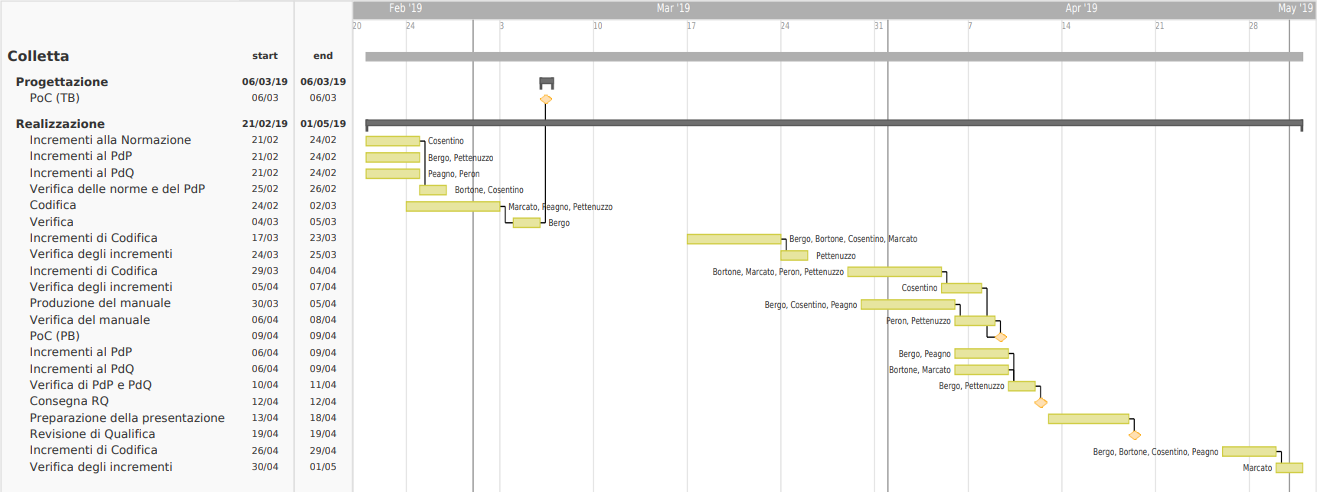
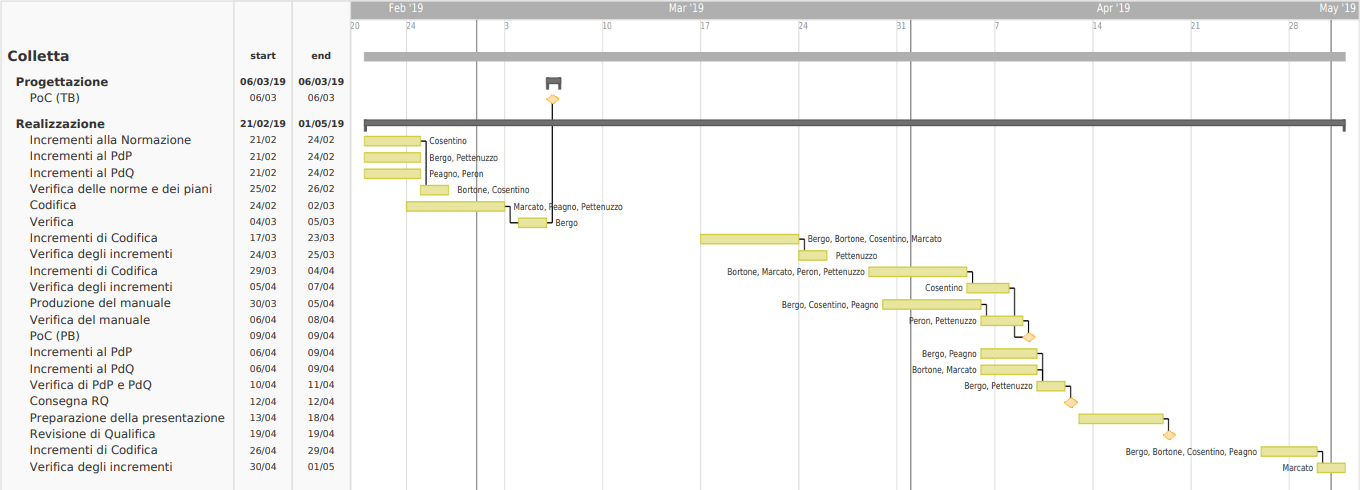
Aggiunta pianificazione per la realizzazione

diff --git a/docs/PdP/pianificazione.tex b/docs/PdP/pianificazione.tex
@@ -40,9 +40,9 @@ La numerazione, sia per i periodi sia per gli insieme di attività sia per le si
 				\item incrementi al Piano di Progetto (2019-01-07 - 2019-01-10): il responsabile redige la parte di rendicontazione e consuntivo del piano di progetto da presentare alla Revisione dei Requisiti.
 				\item incrementi al Piano di Qualifica (2019-01-07 - 2019-01-10): i verificatori redigono la parte di rendicontazione del piano di qualifica da presentare alla Revisione dei Requisiti, aggiungendo i risultati delle misurazioni effettuate, e gli analisti aggiungono i restanti test di sistema.
 				\item verifica dei piani di Progetto e Qualifica (2019-01-11 - 2019-01-12)
-				\item preparazione alla presentazione (2019-01-15 - 2019-01-20)
+				\item preparazione alla presentazione (2019-01-15 - 2019-01-20);
 				\item analisi dei requisiti software (2019-02-01 - 2019-02-05): gli analisti effettuano l'analisi dei requisiti software. Quest'attività è successiva al primo incremento di progettazione architetturale.
-				\item Verifica dell'analisi dei requisiti (2019-02-07 - 2019-02-09)				
+				\item verifica dell'analisi dei requisiti (2019-02-07 - 2019-02-09)				
 			\end{enumerate}
 
 	\newpage
@@ -51,4 +51,40 @@ La numerazione, sia per i periodi sia per gli insieme di attività sia per le si
 		\includegraphics[scale=0.5,angle=90]{images/ganttan.png}
 		\caption{Diagramma di Gantt per il periodo di avvio e di analisi}
 	\end{figure}
+	
 	\newpage
+	\subsection{Progettazione}	
+	
+	\newpage
+	\subsection{Realizzazione (2019-02-21 - 2019-05-01)}
+		\begin{enumerate}[label= 4.\arabic*)]
+			\item incrementi alla normazione (2019-02-21 - 2019-02-24): gli amministratori redigono le norme per il processo di realizzazione;
+			\item incrementi al Piano di Progetto (2019-02-21 - 2019-02-24): il responsabile pianifica gli incrementi di codifica e la realizzazione del prodotto;
+			\item incrementi al Piano di Qualifica (2019-02-21 - 2019-02-24): i progettisti indicano i test di unità per i moduli da realizzare durante la codifica;
+			\item verifica dei piani e delle norme (2019-02-25 - 2019-02-26);
+			\item codifica (2019-02-24 - 2019-03-02): i programmatori realizzano i moduli indicati dai progettisti secondo l'ordine stabilito
+			\item verifica (2019-03-04 - 2019-03-05): verifica del codice prodotto durante la codifica
+			\item incrementi di codifica (2019-03-17 - 2019-03-23)
+			\item verifica degli incrementi (2019-03-24 - 2019-03-25)
+			\item incrementi di codifica (2019-03-29 - 2019-04-04)
+			\item verifica degli incrementi (2019-04-05 - 2019-04-07)
+			\item produzione del manuale (2019-03-30 - 2019-04-05): i progettisti si occupano di scrivere il manuale utente e il manuale dello sviluppatore;
+			\item verifica del manuale (2019-04-06 - 2019-04-08);
+			\item incrementi al Piano di Progetto (2019-04-06 - 2019-04-09): il responsabile redige la parte di rendicontazione e consuntivo del piano di progetto da presentare alla Revisione di Qualifica;
+			\item incrementi al Piano di Qualifica (2019-04-06 - 2019-04-09): i verificatori redigono la parte di rendicontazione del piano di qualifica da presentare alla Revisione di Qualifica, aggiungendo i risultati delle misurazioni effettuate;
+			\item verifica dei piani di Qualifica e di Progetto (2019-04-10 - 2019-04-11);
+			\item preparazione della presentazione (2019-04-13 - 2019-04-18);
+			\item incrementi di codifica (2019-04-26 - 2019-04-29): i programmatori effettuano gli incrementi di codifica basati sulle correzioni effettuate dall'ultimo incremento di progettazione di dettaglio.
+			\item verifica degli incrementi (2019-04-30 - 2019-05-1).
+		\end{enumerate}
+		
+	\newpage
+	\begin{figure}[!hbtp]
+		\centering
+		\includegraphics[scale=0.5, angle=90]{images/ganttreal.png}
+		\caption{Diagramma di Gantt per il periodo di realizzazione}
+	\end{figure}
+	
+	\newpage
+	\subsection{Validazione}
+		
